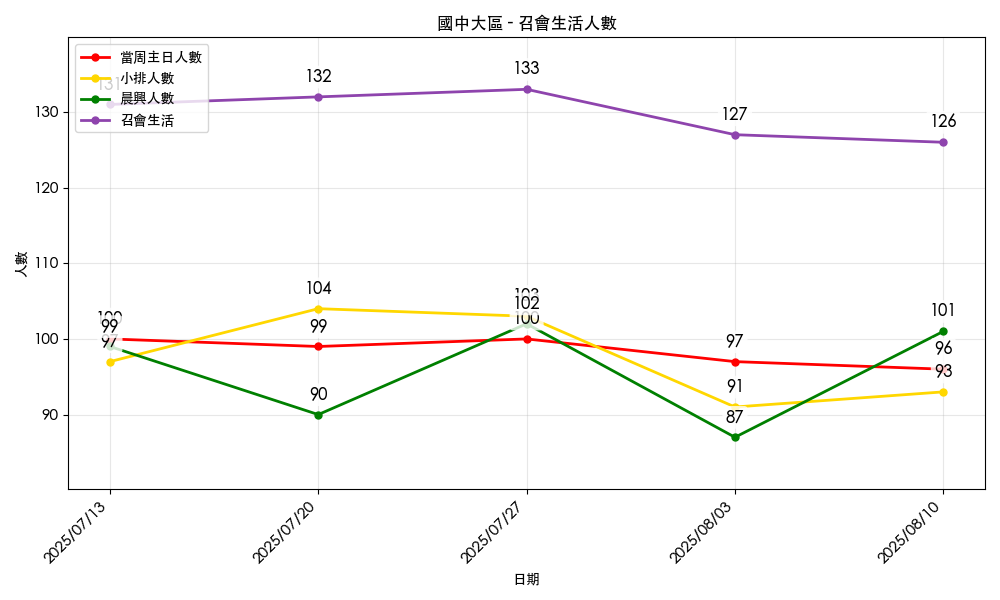
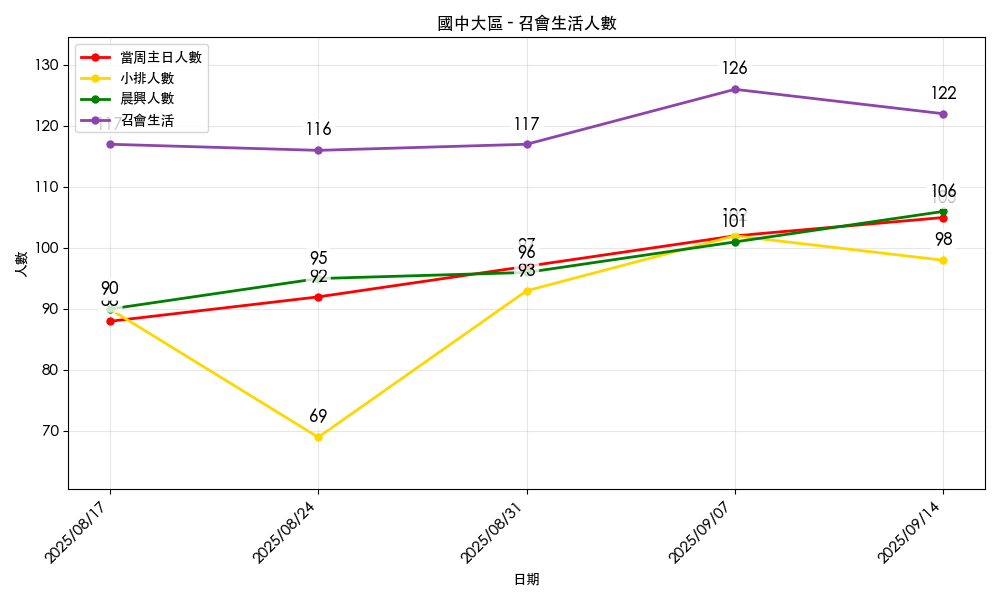
[UPDATE] Only show 5 weeks data

diff --git a/analysis.py b/analysis.py
@@ -201,6 +201,8 @@ def _annotate_series(ax, x_index: pd.Index, y_series: pd.Series, fontsize: int =
 
 
 def plot_attendance(region_name: str, ts: pd.DataFrame, output_dir: str) -> None:
+    # Only keep the last 5 weeks for plotting
+    ts = ts.tail(5)
     plt.figure(figsize=(10, 6))
     ax = plt.gca()
 
@@ -238,6 +240,8 @@ def plot_attendance(region_name: str, ts: pd.DataFrame, output_dir: str) -> None
 
 
 def plot_burden(region_name: str, ts: pd.DataFrame, output_dir: str) -> None:
+    # Only keep the last 5 weeks for plotting
+    ts = ts.tail(5)
     plt.figure(figsize=(10, 6))
     ax = plt.gca()
 
@@ -275,6 +279,8 @@ def plot_burden(region_name: str, ts: pd.DataFrame, output_dir: str) -> None:
 
 
 def plot_subdistrict_attendance(region_name: str, subdistrict_name: str, ts: pd.DataFrame, output_dir: str) -> None:
+    # Only keep the last 5 weeks for plotting
+    ts = ts.tail(5)
     plt.figure(figsize=(10, 6))
     ax = plt.gca()
 
@@ -312,6 +318,8 @@ def plot_subdistrict_attendance(region_name: str, subdistrict_name: str, ts: pd.
 
 
 def plot_subdistrict_burden(region_name: str, subdistrict_name: str, ts: pd.DataFrame, output_dir: str) -> None:
+    # Only keep the last 5 weeks for plotting
+    ts = ts.tail(5)
     plt.figure(figsize=(10, 6))
     ax = plt.gca()
 

diff --git a/app.py b/app.py
@@ -198,8 +198,8 @@ def upload_files():
     uploaded_count = 0
     for file in files:
         if file and allowed_file(file.filename):
-            filename = secure_filename(file.filename)
-            file.save(os.path.join(app.config['UPLOAD_FOLDER'], filename))
+            # filename = secure_filename(file.filename)
+            file.save(os.path.join(app.config['UPLOAD_FOLDER'], file.filename))
             uploaded_count += 1
 
     messages = []
